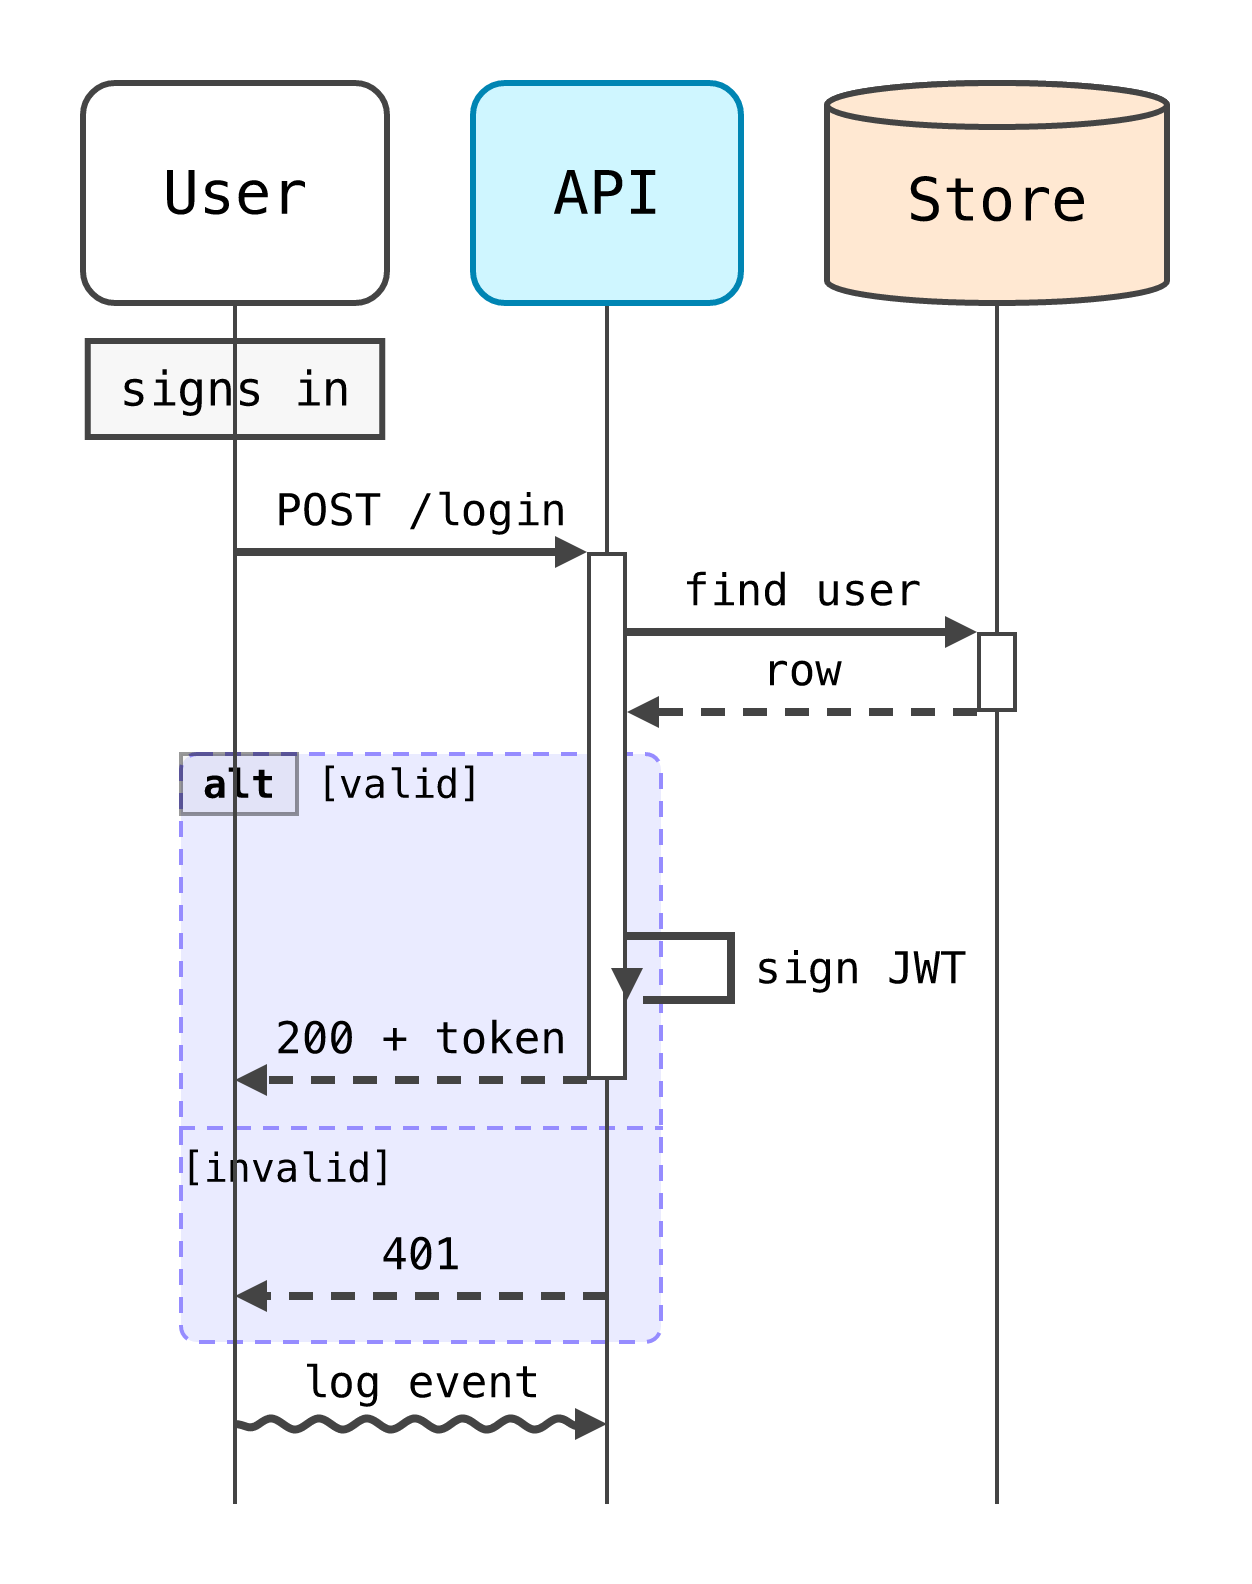
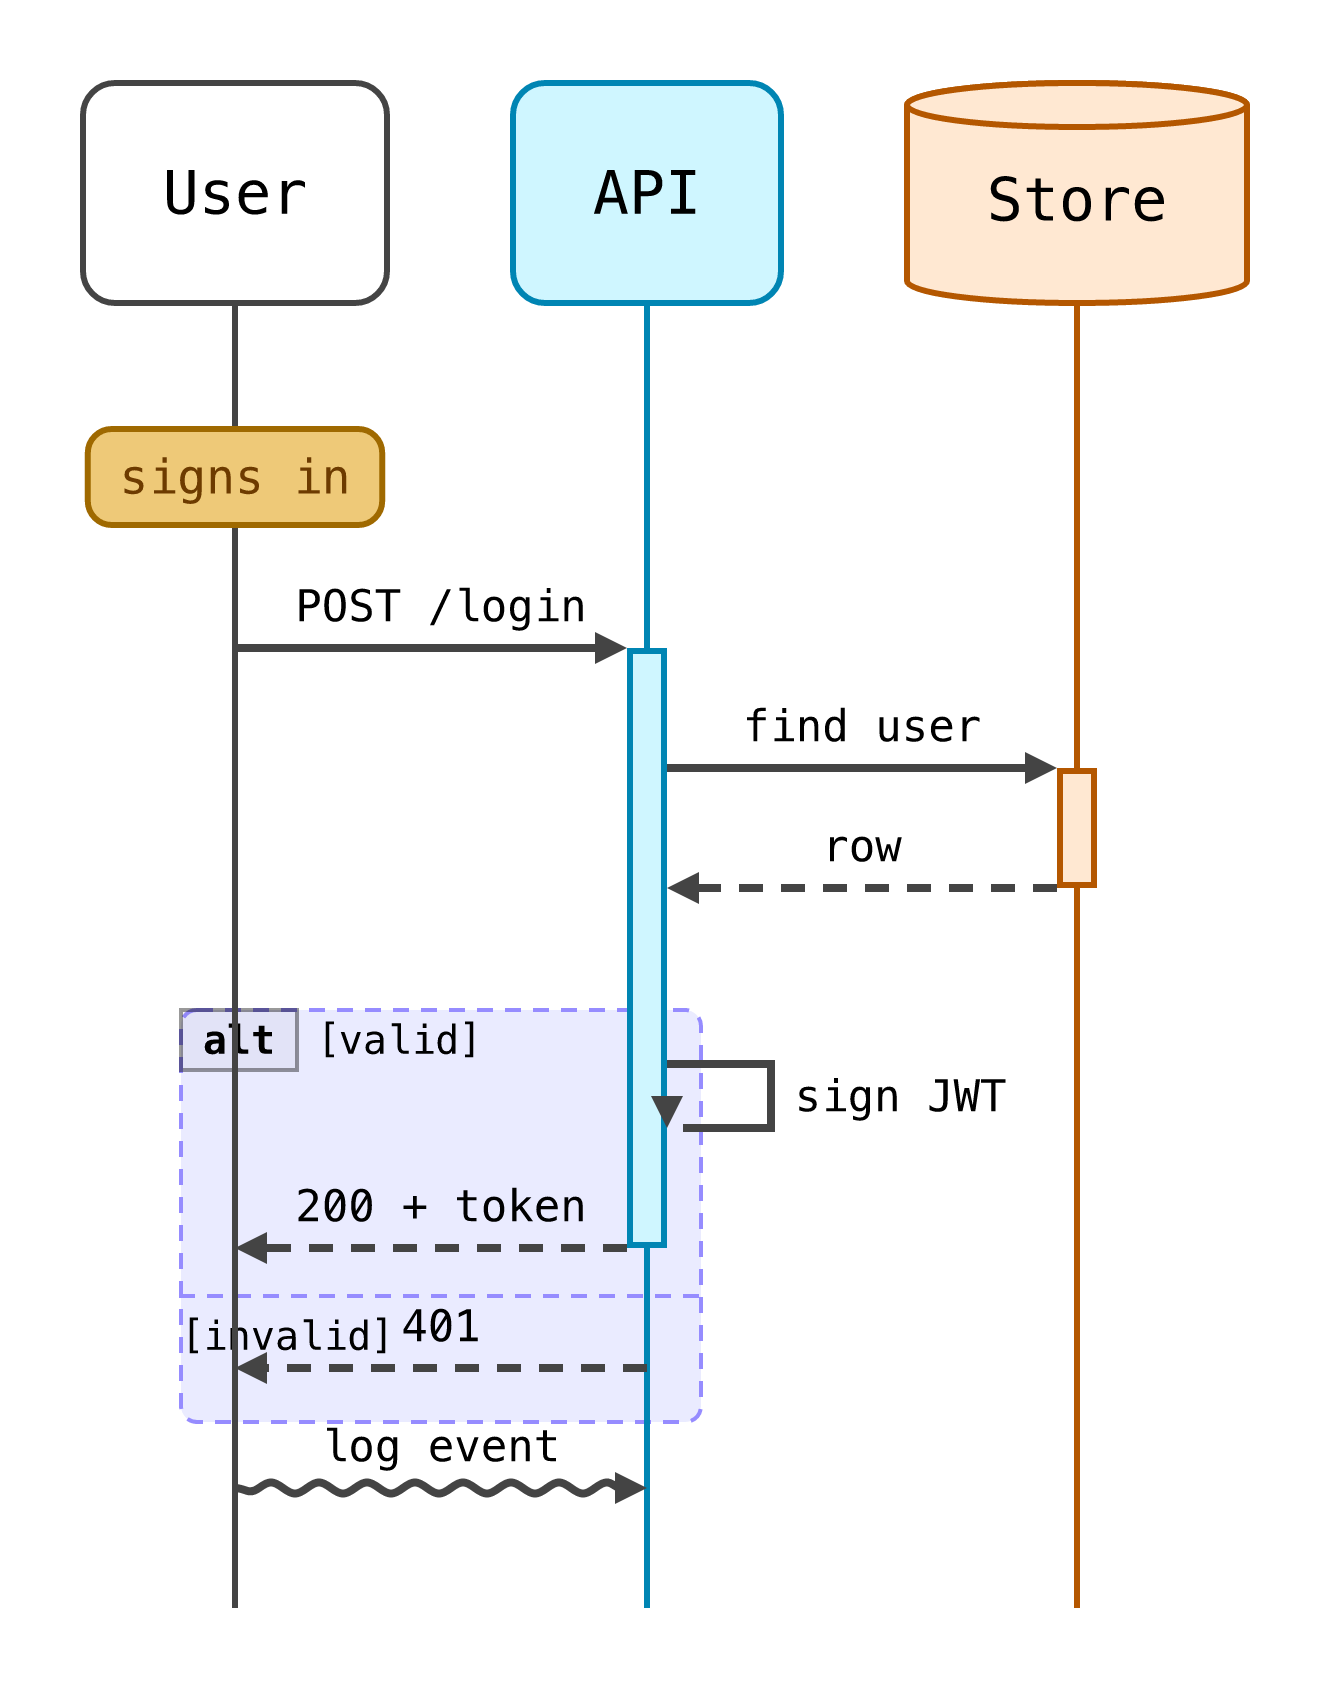
feat(layout): sequence honours standard paint + gap on every part
Make the engine-drawn parts respond to ordinary Lini properties instead of
hardcoding paint and fixed spacing:

- Apparatus follows the participant: a lifeline and its activation bars now take
  the participant's own fill / stroke / stroke-width, so colouring |box#api| {…}
  colours its whole timeline. Bars default to the box's --fill/--stroke and to
  stroke-width 1.5 (so lifelines default to 1.5); bars are square.
- Notes default to an opaque --fill (was the ~3%-opacity --group-fill, which let
  the lifeline show through) and respect their own fill / stroke / radius.
- Frames honour `padding` (default `8 14`): it insets the dashed border from the
  messages it spans (vertical) and the lifelines it touches (horizontal).
- Spacing is uniform: messages and notes sit a `gap` apart and the frame chrome
  (tab, dividers, borders) rides that rhythm rather than adding fixed offsets, so
  adjusting `gap` scales everything evenly. A note now takes a gap-based slot.

Sample gains tasteful colour to exercise all of this; snapshot + asset regenerated.
SPEC §10 documents the apparatus-follows-participant model, note fill, and padding.

Changed region(s): [[0.0623, 0.0309, 0.9657, 0.959], [0.623, 0.4949, 0.6853, 0.5259]]

diff --git a/src/layout/sequence/frames.rs b/src/layout/sequence/frames.rs
@@ -9,24 +9,13 @@
 use super::messages::Pair;
 use crate::layout::PlacedNode;
 use crate::layout::prim;
+use crate::layout::primitives::{PaddingBox, padding};
 use crate::resolve::{NodeKind, ResolvedInst, ResolvedValue};
 use std::collections::HashMap;
 
-/// Horizontal inset of the frame border past the outermost lifeline it spans.
-const INSET: f64 = 14.0;
 /// Each nesting level draws its border inward, so a nested frame reads inside its parent.
 const NEST_INSET: f64 = 6.0;
-/// Gap above a frame's top border (separating it from the message before it).
-const TOP_MARGIN: f64 = 10.0;
-/// Room between the top border and the first message — the tab plus the message's label.
-const TAB_CLEAR: f64 = 26.0;
-/// Room between the last message and the bottom border.
-const BOT_MARGIN: f64 = 12.0;
-/// Room from the previous message down to an `|else|` divider.
-const ELSE_MARGIN: f64 = 12.0;
-/// Room from an `|else|` divider to the next message (for its guard).
-const ELSE_CLEAR: f64 = 22.0;
-/// The title-tab height.
+/// The title-tab height — reserved in the gap above a frame's first message.
 const TAB_H: f64 = 16.0;
 /// Tab keyword and guard text sizes.
 const KEYWORD_SIZE: f64 = 10.0;
@@ -36,13 +25,15 @@ const GUARD_SIZE: f64 = 10.0;
 /// separator collected within an `alt`, not a frame of its own.
 const FRAME_KINDS: &[&str] = &["loop", "opt", "alt"];
 
-/// A frame collected from the scene tree, flattened with its nesting depth and the
-/// `|else|` separators inside it (empty for `loop` / `opt`).
+/// A frame collected from the scene tree, flattened with its nesting depth, the `|else|`
+/// separators inside it (empty for `loop` / `opt`), and its `padding` (the inset of the
+/// border from the messages it spans and the lifelines it touches).
 pub(super) struct Frame<'a> {
     inst: &'a ResolvedInst,
     keyword: &'a str,
     depth: usize,
     elses: Vec<&'a ResolvedInst>,
+    pad: PaddingBox,
 }
 
 /// The y-extent a frame occupies on the timeline: its top and bottom border, and the y
@@ -52,9 +43,6 @@ pub(super) struct FrameGeom {
     bot: f64,
     else_ys: Vec<f64>,
 }
-
-/// Vertical clear space above and below a note's box on its row.
-const NOTE_MARGIN: f64 = 8.0;
 
 /// The timeline of the whole sequence body: each message's row y, each note's centre y, the
 /// foot, and the frames' y-extents (parallel to the collected frames). Messages, frames, and
@@ -101,6 +89,7 @@ fn gather<'a>(children: &'a [ResolvedInst], depth: usize, out: &mut Vec<Frame<'a
                 keyword,
                 depth,
                 elses: inst.children.iter().filter(|c| is_else(c)).collect(),
+                pad: padding(&inst.attrs, inst.span).unwrap_or_default(),
             });
             gather(&inst.children, depth + 1, out);
         }
@@ -162,7 +151,12 @@ pub(super) fn timeline(
     }
     events.sort_by_key(|(pos, rank, _)| (*pos, *rank));
 
+    // Rows (messages, notes) sit a uniform `gap_row` apart; the frame chrome (tab, dividers,
+    // borders) reserves room *within* that rhythm rather than on top of it, so the spacing
+    // reads even at any `gap`. `placed` tracks whether the previous element was a row, so the
+    // first message inside a frame doesn't add a second gap over the frame's own padding.
     let mut y = 0.0;
+    let mut placed = true; // the header sits above; the first row gaps from it
     let mut msg_y = vec![0.0; pairs.len()];
     let mut note_y = vec![0.0; notes.len()];
     let mut geom: Vec<FrameGeom> = frames
@@ -175,32 +169,44 @@ pub(super) fn timeline(
         .collect();
     for (_, _, ev) in &events {
         match ev {
-            // The top border sits just below the previous content; the first message clears
-            // the tab and its own label.
+            // The top border sits a full row below the previous content (the tab rides that
+            // gap); the first message is the frame's `padding` below the border.
             Ev::Open(f) => {
-                geom[*f].top = y + TOP_MARGIN;
-                y += TOP_MARGIN + TAB_CLEAR;
+                if placed {
+                    y += gap_row;
+                }
+                geom[*f].top = y;
+                y += frames[*f].pad.top;
+                placed = false;
             }
-            // The divider sits below the previous message; the next message clears the guard.
+            // The divider splits the compartments; its guard rides the room below it.
             Ev::Else(f, e) => {
-                geom[*f].else_ys[*e] = y + ELSE_MARGIN;
-                y += ELSE_MARGIN + ELSE_CLEAR;
+                y += gap_row * 0.4;
+                geom[*f].else_ys[*e] = y;
+                y += gap_row * 0.6;
+                placed = false;
             }
             Ev::Msg(i) => {
-                y += gap_row;
+                if placed {
+                    y += gap_row;
+                }
                 msg_y[*i] = y;
                 y += pairs[*i].hook_drop(); // a self-message's hook drops below its row
+                placed = true;
             }
-            // A note reserves its box height, centred with a margin above and below.
+            // A note reserves its own box height plus a row's clearance above and below.
             Ev::Note(i) => {
-                y += NOTE_MARGIN;
+                if placed {
+                    y += gap_row;
+                }
                 note_y[*i] = y + notes[*i].1 / 2.0;
-                y += notes[*i].1 + NOTE_MARGIN;
+                y += notes[*i].1;
+                placed = true;
             }
-            // The bottom border sits below the last message.
+            // The bottom border sits the frame's `padding` below the last message; the next
+            // row still gaps a full `gap_row` from that message, so the border rides the gap.
             Ev::Close(f) => {
-                y += BOT_MARGIN;
-                geom[*f].bot = y;
+                geom[*f].bot = y + frames[*f].pad.bottom;
             }
         }
     }
@@ -226,8 +232,13 @@ pub(super) fn draw(
         let Some((lo, hi)) = lifeline_span(fr, pairs, lifeline_x) else {
             continue; // a frame with no placed messages spans nothing
         };
-        let inset = (INSET - fr.depth as f64 * NEST_INSET).max(4.0);
-        let (left, right) = (lo - inset, hi + inset);
+        // The horizontal inset is the frame's `padding`, pulled inward by nesting depth so a
+        // nested frame reads inside its parent.
+        let nest = fr.depth as f64 * NEST_INSET;
+        let (left, right) = (
+            lo - (fr.pad.left - nest).max(4.0),
+            hi + (fr.pad.right - nest).max(4.0),
+        );
         out.push(border(fr.inst, left, g.top, right, g.bot));
         out.extend(tab(fr, left, g.top));
         // `|else|` dividers split the alt into compartments; each carries its guard.

diff --git a/src/layout/sequence/mod.rs b/src/layout/sequence/mod.rs
@@ -163,25 +163,26 @@ fn lay_out(
     let msg_y = &timeline.msg_y;
     let row_y = |i: usize| if i < msg_y.len() { msg_y[i] } else { foot_y };
 
-    // The lifelines and activation bars are the sequence's "apparatus" — drawn uniformly in
-    // its own `stroke` / `stroke-width` (SPEC §10), so a participant's paint styles its
-    // header, not its timeline. Place participants at their column centres, top-aligned, and
-    // drop a lifeline to the foot.
-    let stroke = lifeline_stroke(attrs);
-    let width = apparatus_width(attrs);
+    // Each participant lends its own paint to its **apparatus** — its lifeline and activation
+    // bars (SPEC §10) — so colouring a participant colours its whole timeline, and a plain box
+    // gives a `--stroke` line at width 1.5. Place participants at their column centres,
+    // top-aligned, and drop a lifeline to the foot.
     let mut lifelines = Vec::with_capacity(participants.len());
     let mut lifeline_x: HashMap<String, f64> = HashMap::new();
+    let mut paint: HashMap<String, Apparatus> = HashMap::new();
     for (p, &cx) in participants.iter_mut().zip(&centres) {
         p.cx = cx;
         p.cy = top + p.bbox.h() / 2.0;
         let head_bottom = p.cy + p.bbox.h() / 2.0;
+        let a = Apparatus::of(&p.attrs);
         lifelines.push(prim::line(
             vec![(cx, head_bottom), (cx, foot_y)],
-            stroke.clone(),
-            width,
+            a.stroke.clone(),
+            a.width,
         ));
         if let Some(id) = p.id.as_deref() {
             lifeline_x.insert(id.to_string(), cx);
+            paint.insert(id.to_string(), a);
         }
     }
 
@@ -198,7 +199,7 @@ fn lay_out(
         activations::edge(&bars, id, row, cx, toward).unwrap_or(cx)
     };
     let arrows = messages::draw(&pairs, &lifeline_x, endpoint_x, row_y);
-    let bar_nodes = activations::draw(&bars, &lifeline_x, row_y, stroke.clone(), width);
+    let bar_nodes = activations::draw(&bars, &lifeline_x, row_y, &paint);
     let frame_nodes = frames::draw(&seq_frames, &timeline.geom, &pairs, &lifeline_x);
     let placed_notes = place_notes(notes, &timeline.note_y, &lifeline_x);
 
@@ -227,17 +228,26 @@ fn enclosing_bbox(children: &[PlacedNode]) -> Bbox {
     Bbox::centered(w.max(1.0), h.max(1.0))
 }
 
-/// The lifeline / bar colour: the sequence's `stroke` if set, else the `--stroke` role var.
-fn lifeline_stroke(attrs: &AttrMap) -> ResolvedValue {
-    attrs
-        .get("stroke")
-        .cloned()
-        .unwrap_or_else(|| live("stroke"))
+/// The paint a participant lends its **apparatus** — its lifeline and activation bars (SPEC
+/// §10). Read from the participant's own resolved attrs, so styling the participant styles
+/// its timeline; a plain box falls back to `--fill` / `--stroke` at width 1.5.
+pub(super) struct Apparatus {
+    pub fill: ResolvedValue,
+    pub stroke: ResolvedValue,
+    pub width: f64,
 }
 
-/// The lifeline / bar stroke width: the sequence's `stroke-width` if set, else 1.
-fn apparatus_width(attrs: &AttrMap) -> f64 {
-    attrs.number("stroke-width").unwrap_or(1.0)
+impl Apparatus {
+    fn of(attrs: &AttrMap) -> Self {
+        Self {
+            fill: attrs.get("fill").cloned().unwrap_or_else(|| live("fill")),
+            stroke: attrs
+                .get("stroke")
+                .cloned()
+                .unwrap_or_else(|| live("stroke")),
+            width: attrs.number("stroke-width").unwrap_or(1.5),
+        }
+    }
 }
 
 /// Activation bars are drawn unless `activation: none` (SPEC §10).

diff --git a/src/layout/sequence/activations.rs b/src/layout/sequence/activations.rs
@@ -78,29 +78,31 @@ pub(super) fn edge(
     })
 }
 
-/// Lower each bar to a thin `|block|` on its participant's lifeline (SPEC §10 — `fill:
-/// --fill`, outlined in the sequence's own `stroke` / `stroke-width` so it matches the
-/// lifelines), spanning its open → close rows.
+/// Lower each bar to a thin `|block|` on its participant's lifeline, painted in **that
+/// participant's** own fill / stroke / stroke-width / radius (SPEC §10) — so colouring a
+/// participant colours its activation bars too — spanning its open → close rows.
 pub(super) fn draw(
     bars: &[Bar],
     lifeline_x: &HashMap<String, f64>,
     row_y: impl Fn(usize) -> f64,
-    stroke: crate::resolve::ResolvedValue,
-    width: f64,
+    paint: &HashMap<String, super::Apparatus>,
 ) -> Vec<PlacedNode> {
     bars.iter()
         .filter_map(|b| {
             let cx = lifeline_x.get(&b.participant)? + b.depth as f64 * NEST_DX;
+            let a = paint.get(&b.participant)?;
             let (top, bot) = (row_y(b.open_row), row_y(b.close_row));
+            // Square bars (the UML convention); a participant's fill / stroke / width carry
+            // over, but not its card `radius`.
             let mut bar = prim::rect(
                 cx,
                 (top + bot) / 2.0,
                 BAR_W,
                 (bot - top).max(1.0),
-                super::live("fill"),
+                a.fill.clone(),
                 1.0,
             );
-            prim::outline(&mut bar, stroke.clone(), width);
+            prim::outline(&mut bar, a.stroke.clone(), a.width);
             Some(bar)
         })
         .collect()

diff --git a/src/desugar/bundles.rs b/src/desugar/bundles.rs
@@ -156,18 +156,20 @@ pub fn template_bundle(name: &str) -> Vec<Decl> {
         // ordinary boxes and keep their own type's paint.
         "sequence" => vec![id("layout", "sequence")],
         "note" => vec![
-            var("fill", "group-fill"),
+            var("fill", "fill"),
             var("stroke", "stroke"),
             pair("padding", 6.0, 8.0),
             n("font-size", 12.0),
         ],
-        // A frame: a dashed, rounded rectangle around a span of messages.
+        // A frame: a dashed, rounded rectangle around a span of messages. `padding` insets
+        // the border from the messages it spans (vertical) and the lifelines (horizontal).
         "loop" | "opt" | "alt" => vec![
             id("fill", "none"),
             var("stroke", "group-stroke"),
             id("stroke-style", "dashed"),
             n("stroke-width", 1.0),
             n("radius", 4.0),
+            pair("padding", 8.0, 14.0),
         ],
         // An |alt| compartment separator: the same dashed line, no body radius.
         "else" => vec![

diff --git a/SPEC.md b/SPEC.md
@@ -1157,15 +1157,16 @@ styling; the cascade overrides any of it. They reuse the scene's role variables 
 | Type | Defaults over `\|block\|` |
 |---|---|
 | `\|sequence\|` | `layout: sequence` |
-| `\|note\|` | `fill: --group-fill; stroke: --stroke; padding: 6 8; font-size: 12` |
-| `\|loop\|` / `\|opt\|` / `\|alt\|` | `fill: none; stroke: --group-stroke; stroke-style: dashed; stroke-width: 1; radius: 4` |
+| `\|note\|` | `fill: --fill; stroke: --stroke; padding: 6 8; font-size: 12` |
+| `\|loop\|` / `\|opt\|` / `\|alt\|` | `fill: none; stroke: --group-stroke; stroke-style: dashed; stroke-width: 1; radius: 4; padding: 8 14` |
 | `\|else\|` | `fill: none; stroke: --group-stroke; stroke-style: dashed; stroke-width: 1` |
 
-A participant keeps its own type's paint (its header box). The **lifelines** and **activation
-bars** are the sequence's *apparatus*, drawn uniformly in **its own** `stroke` / `stroke-width`
-(default `--stroke`, width 1) — set them on the sequence, not per participant; a bar fills with
-`--fill`. A **frame** draws **behind** the lifelines, so giving it a `fill` tints the region
-without hiding the wires.
+A participant **lends its paint to its apparatus**: its lifeline and activation bars take the
+participant's own `fill` / `stroke` / `stroke-width`, so colouring a participant colours its
+whole timeline (a plain box gives a `--stroke` line at width 1.5 with a `--fill` bar). A
+**frame** draws **behind** the lifelines — a `fill` tints its region without hiding the wires —
+and its `padding` insets the border from the messages and lifelines it spans. Rows sit a uniform
+`gap` apart; the frame chrome (tab, dividers) rides that rhythm, so spacing reads even.
 
 ### Lowering
 